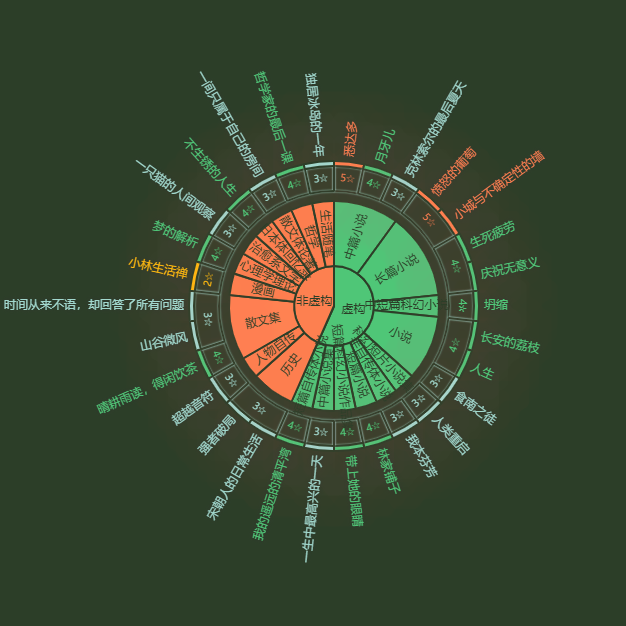
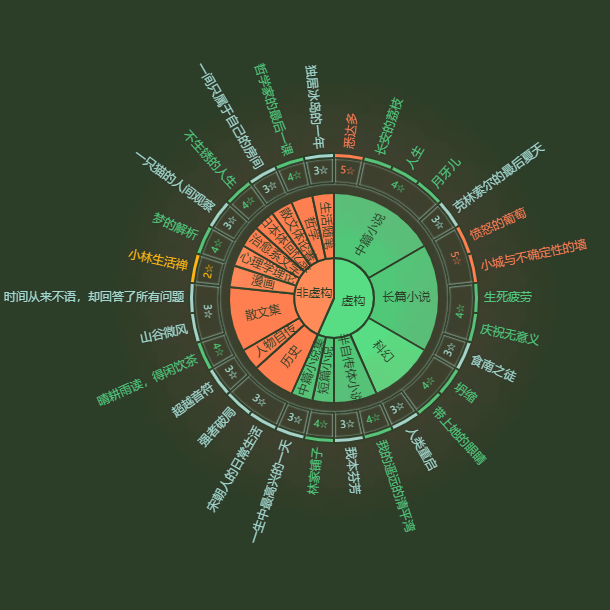
feat: 2025读书统计数据优化

Changed region(s): [[0.0, 0.0934, 0.9656, 0.9033], [0.7475, 0.218, 0.7787, 0.2492]]

diff --git a/js/bookList.js b/js/bookList.js
@@ -2,7 +2,7 @@
  * @Author: seven.zhang
  * @Date: 2020-12-02 17:27:38
  * @Last Modified by: seven.zhang
- * @Last Modified time: 2026-01-04 09:51:04
+ * @Last Modified time: 2026-01-05 13:44:11
  */
 const bookData = {
     2017: [
@@ -1334,7 +1334,7 @@ const bookData = {
                 {
                     name: '坍缩',
                     author: '刘慈欣',
-                    type: '中短篇科幻小说',
+                    type: '科幻',
                     star: '4',
                     kind: '虚构'
                 },
@@ -1348,7 +1348,7 @@ const bookData = {
                 {
                     name: '长安的荔枝',
                     author: '马伯庸',
-                    type: '小说',
+                    type: '中篇小说',
                     star: '4',
                     kind: '虚构'
                 }
@@ -1360,7 +1360,7 @@ const bookData = {
                 {
                     name: '人类重启',
                     author: '亚历山大·温斯坦',
-                    type: '科幻短片小说集',
+                    type: '科幻',
                     star: '3',
                     kind: '虚构'
                 },
@@ -1400,7 +1400,7 @@ const bookData = {
                 {
                     name: '食南之徒',
                     author: '马伯庸',
-                    type: '小说',
+                    type: '长篇小说',
                     star: '3',
                     kind: '虚构'
                 }
@@ -1469,7 +1469,7 @@ const bookData = {
                 {
                     name: '带上她的眼睛',
                     author: '刘慈欣',
-                    type: '短篇科幻小说作品集',
+                    type: '科幻',
                     star: '4',
                     kind: '虚构'
                 }
@@ -1514,7 +1514,7 @@ const bookData = {
                 {
                     name: '人生',
                     author: '路遥',
-                    type: '小说',
+                    type: '中篇小说',
                     star: '4',
                     kind: '虚构'
                 },
@@ -1535,7 +1535,7 @@ const bookData = {
                 {
                     name: '我的遥远的清平湾',
                     author: '史铁生',
-                    type: '短篇自传体小说',
+                    type: '半自传体小说',
                     star: '4',
                     kind: '虚构'
                 }
